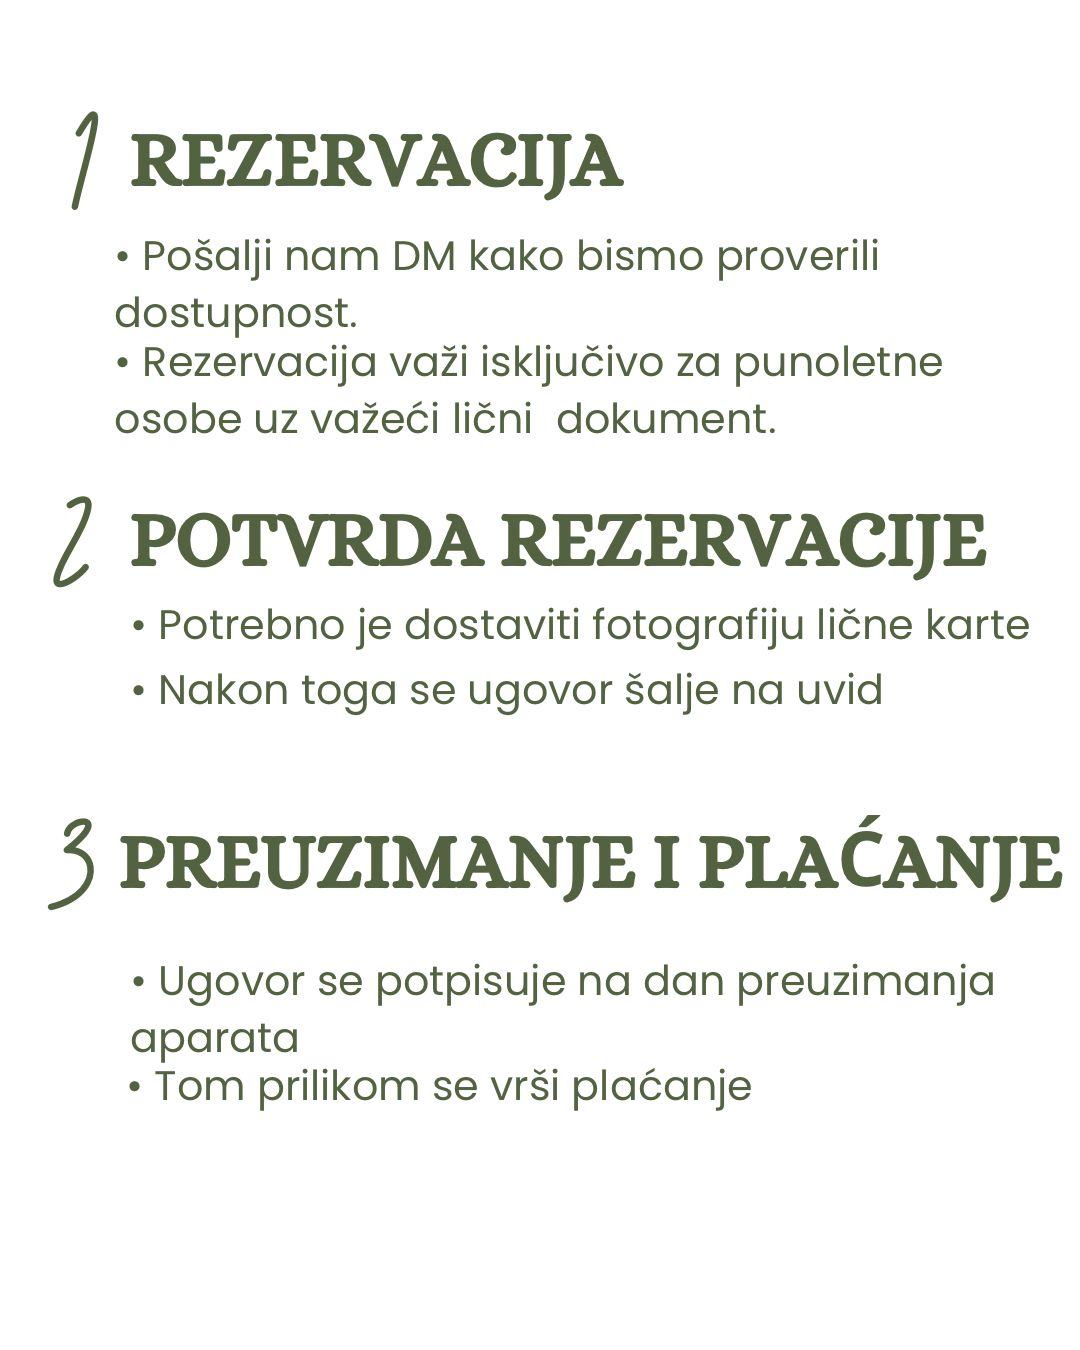
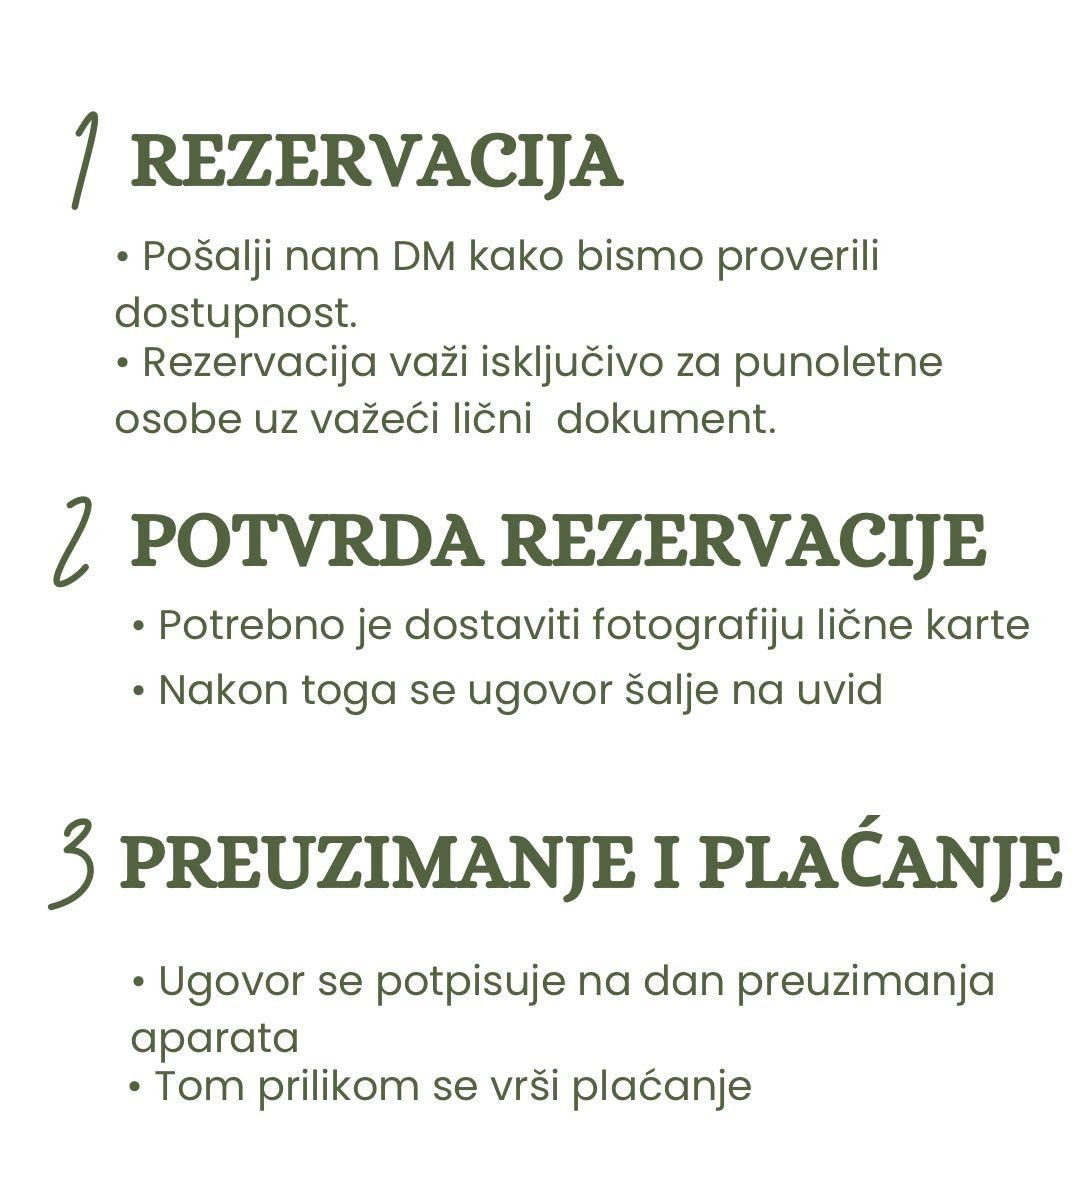
slike-crop

Changed region(s): [[0.0306, 0.0927, 1.0, 0.9265], [0.0306, 0.3706, 0.0917, 0.4942], [0.0611, 0.0618, 0.0917, 0.1853]]

diff --git a/styless.css b/styless.css
@@ -263,9 +263,7 @@
         padding: 20px 200px;
     }
 
-    .howtorent img:nth-child(2) {
-        margin-top: -300px;
-    }
+  
     .container .uslovi-koriscenja {
         display: flex;
         flex-direction: column;
@@ -278,7 +276,7 @@
         color: floralwhite;
         text-decoration: none;
         padding-bottom: 50px;
-    }
+    }   
     .uslovi-section {
         display: flex;
         flex-direction: column;
@@ -415,6 +413,11 @@
 
     /* ── RESPONSIVE — mali mobilni (do 480px) ──────── */
     @media (max-width: 480px) {
+        .nav-logo {
+            font-size: 14px;
+            letter-spacing: 1px;
+        }
+
         .menu {
             flex-direction: column;
             height: auto;
@@ -553,6 +556,10 @@
 
     /* ── RESPONSIVE — tablet (769px – 1024px) ───────── */
     @media (min-width: 769px) and (max-width: 1024px) {
+        .howtorent img:nth-child(2) {
+            margin-top: 0;
+        }
+
         .menu {
             flex-direction: row;
             height: calc(100vh - var(--nav-height));
